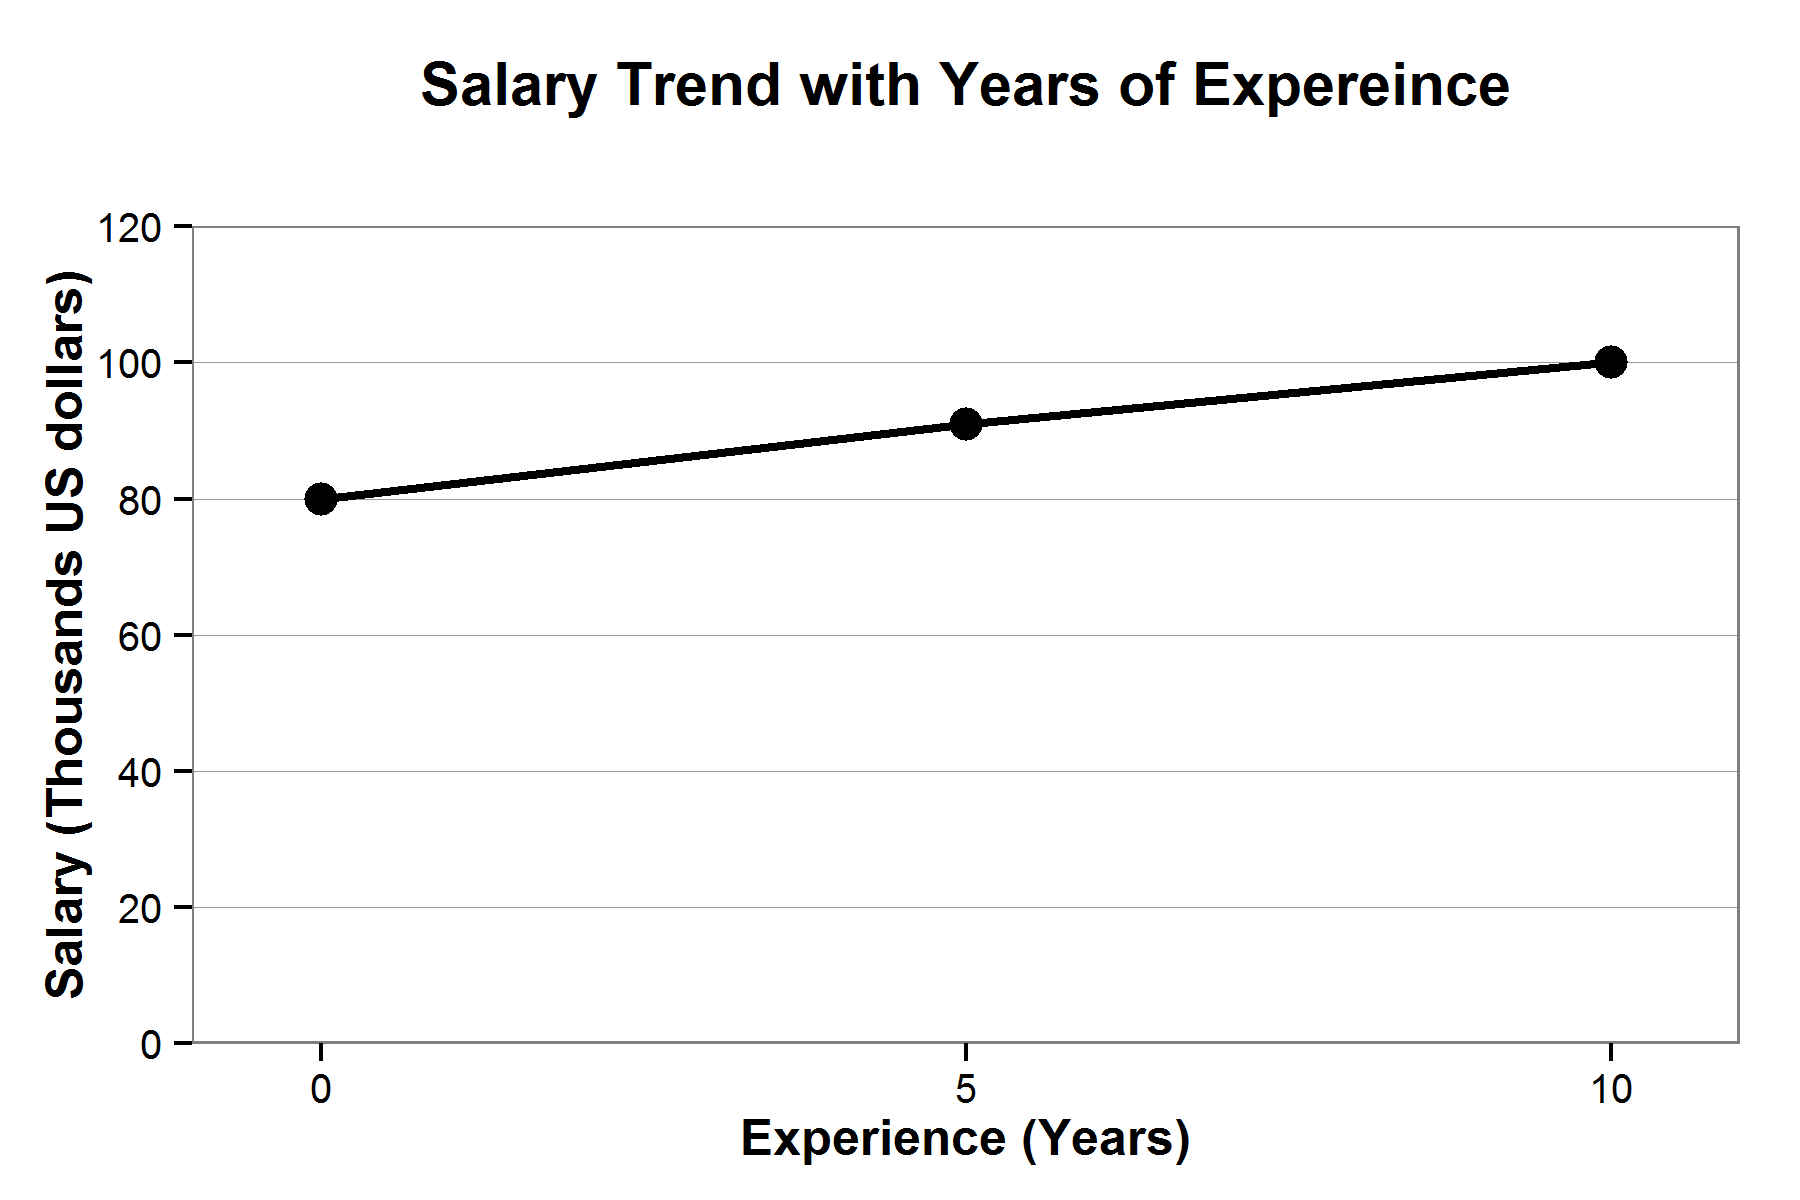
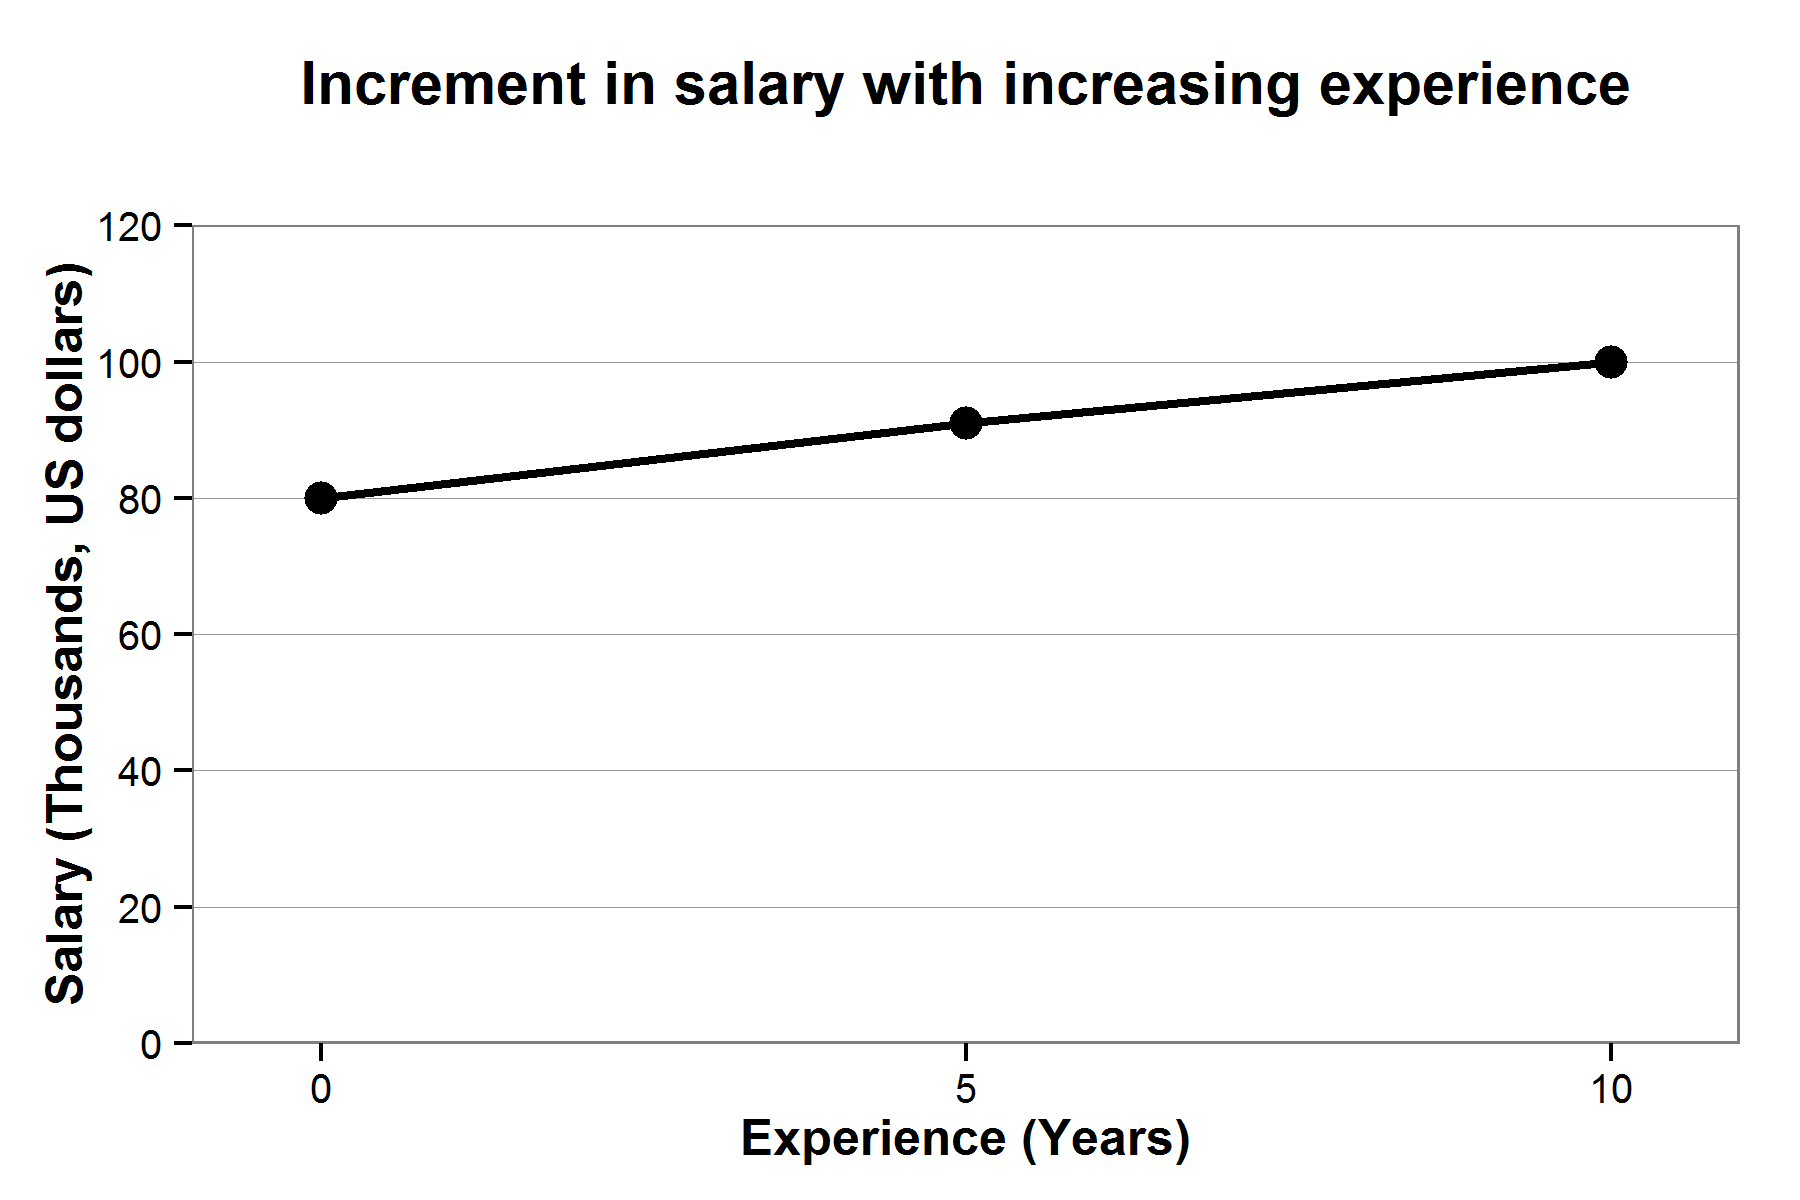
Revised the mini project 2

diff --git a/codes/index.html b/codes/index.html
@@ -6,17 +6,26 @@
   <script src="http://d3js.org/d3.v3.min.js"></script>
   <script src="http://dimplejs.org/dist/dimple.v2.1.2.min.js"></script>
   <script type="text/javascript">
-    var svg = dimple.newSvg("#chartContainer", 590, 400);
+    var svg = dimple.newSvg("#chartContainer", 600, 400);
     d3.tsv("mini2data.tsv", function (data) {
       var myChart = new dimple.chart(svg, data);
       myChart.setBounds(60, 30, 505, 305);
-      var x = myChart.addCategoryAxis("x", "experience");
-      x.ticks=10;
-      myChart.addMeasureAxis("y", "salary");
+      var x = myChart.addCategoryAxis("x", "experience");      
+      var y = myChart.addMeasureAxis("y", "salary");
       var s = myChart.addSeries(null, dimple.plot.line);
-      myChart.addSeries(["salary"], dimple.plot.bubble);
+      myChart.addSeries(null, dimple.plot.bubble);
       myChart.draw();
+      x.titleShape.text("Experience (Years)");
+      y.titleShape.text("Salary (Thousands, US dollars)");      
+      x.ticks=2;
+    svg.append("text")
+   .attr("x", myChart._xPixels() + myChart._widthPixels() / 2)
+   .attr("y", myChart._yPixels()- 15 )
+   .style("text-anchor", "middle")
+   .style("font-family", "sans-serif")   
+   .text("Increment in salary with increasing experience")
     });
+    /*.style("font-weight", "bold")*/
   </script>
 </div>
 </body>

diff --git a/writings/miniproject2report.md b/writings/miniproject2report.md
@@ -7,12 +7,18 @@ Image source [WTF Visualizations](http://viz.wtf/)
 
 ### Analysis of the figure
 
-The first observation is that the two arrows outside the axis label is confusing and does not add any information. Second, for showing trends in data line plots are more suitable than bar plots. Also, step charts will also highlight the trend. Third, the use of colors are not made to add  information to visualization thus low data to ink ratio. Fourth, grid lines and tick marks on the y-axis is missing. Finally, labels and titles can be made more informative. 
+The first observation is that the two arrows outside the axis label is confusing and does not add any information to the visualization. Second, for showing trends in data line plots are more suitable than bar plots. Also, step charts can be used highlight the rise in salary with experience. Third, the use of colors are not made to add  information to visualization thus low data to ink ratio. Fourth, grid lines and tick marks on the y-axis is missing. Finally, labels and titles can be made more informative. 
 
 ### Redesign process
 
 First, pencil-paper sketch of the graph. 
 
-![The dual axis image](F:/linux_windows/onlinecourses/udacity/introductiontodatavisualization/uda-intro-vis/figures/sketch.png "Sketch of the redesign image")
+![Sketch](F:/linux_windows/onlinecourses/udacity/introductiontodatavisualization/uda-intro-vis/figures/sketch.png "Sketch of the redesign image")
 
 Next, the visualization is done in dimple.js and can be accessed through following links. 
+
+The visual clutter is removed like unnecessary colors. Next, informative labels and grid lines are added.  
+
+Furthermore, the graphics is replotted with ggplot2 and plot.ly. The graphics can be viewed by following the link [Redesigned figure](https://plot.ly/~rrahul/57)
+
+![GGPLOT2](F:/linux_windows/onlinecourses/udacity/introductiontodatavisualization/uda-intro-vis/figures/minproject2.png "Redisigned Image")

diff --git a/writings/summarynarrativestructure.md b/writings/summarynarrativestructure.md
@@ -1,0 +1,11 @@
+Below find my attempt on summarizing the narrative structure of the visualization. 
+
+### What is the narrative structure?
+
+### How does the visualization lead you through the data?
+
+### What is the story being told?
+
+### How could this have been improved?
+
+First, color codes are not clear a legend could have significantly improved the interpretation of visualization. Second, there is change in the visualization type, legend or note could have significantly aided the viewers in interpreting the visualization. 
